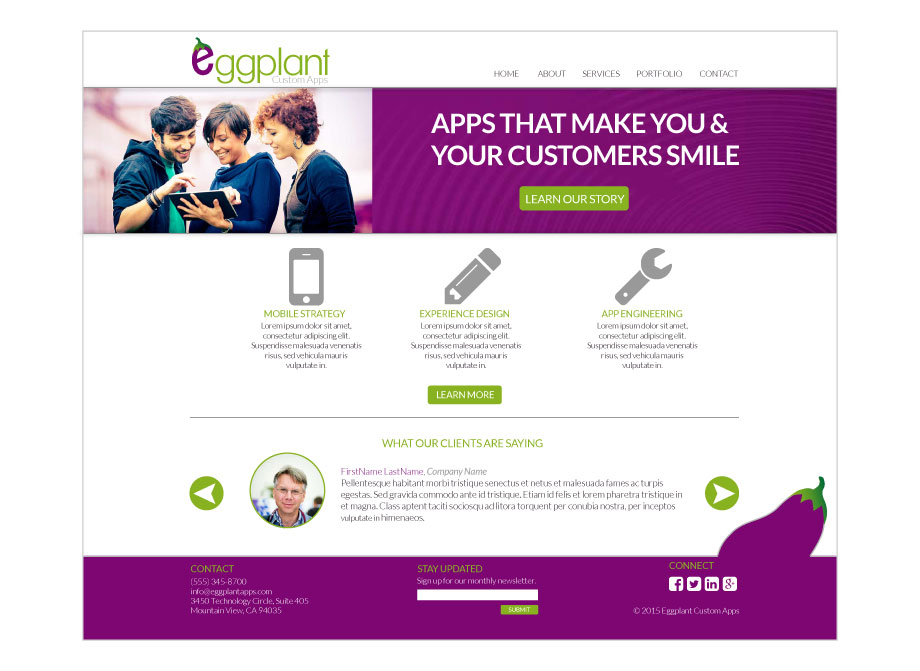
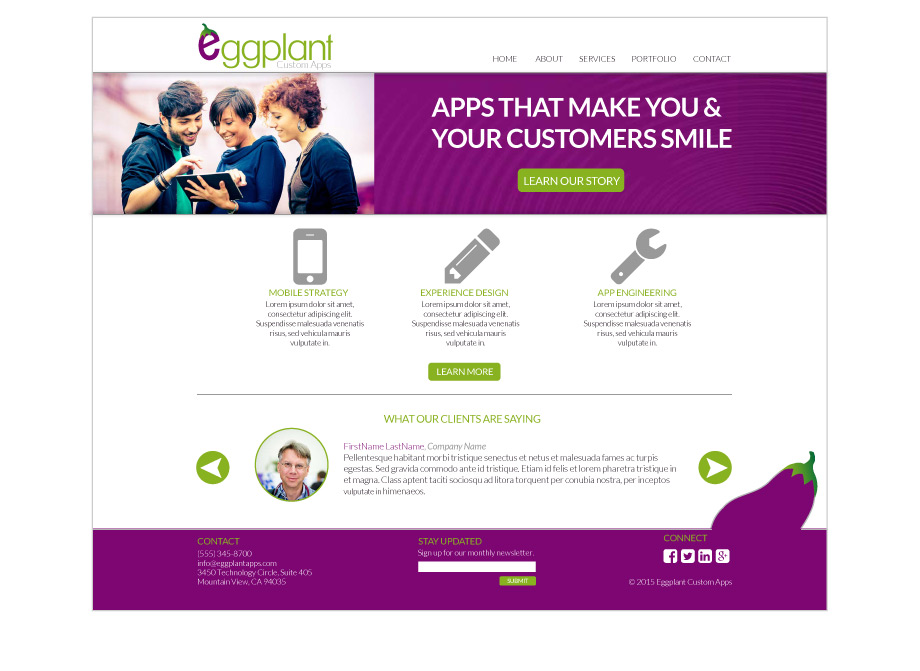
Edit eggplant apps images for better quality

Changed region(s): [[0.0913, 0.0298, 0.913, 0.9538], [0.0913, 0.0298, 0.1217, 0.0596]]

diff --git a/portfolio/eggplant_apps.html b/portfolio/eggplant_apps.html
@@ -31,12 +31,12 @@
                 <h2>// Visual Identity Creation</h2>
                 <p>Eggplant Apps is a fictitious Bay Area tech start-up of my imagination. I created a complete suite of original visual identity elements for the brand, including logo, business card, letterhead, website homepage and basic style guide. This project allowed me to show off my creative skills to develop a memorable identity that is just as fun as it is professional.</p>
                 <ul class="bxslider">
-                    <li><img src="../images/eggplant_apps_logo.jpg" title="Eggplant Apps: Mock logo" alt="Eggplant Apps: Mock Logo" /></a></li>
-                    <li><img src="../images/eggplant_apps_business_card.jpg" title="Eggplant Apps: Mock business card" alt="Eggplant Apps: Mock business card" /></li>
-                    <li><img src="../images/eggplant_apps_letterhead.jpg" title="Eggplant Apps: Mock letterhead" alt="Eggplant Apps: Mock letterhead" /></li>
-                    <li><img src="../images/eggplant_apps_website.jpg" title="Eggplant Apps: Mock website homepage" alt="Eggplant Apps: Mock website homepage" /></li>
-                    <li><img src="../images/eggplant_apps_style_guide1.jpg" title="Eggplant Apps: Mock style guide (page 1 of 2)" alt="Eggplant Apps: Mock style guide (page 1 of 2)" /></li>
-                    <li><img src="../images/eggplant_apps_style_guide2.jpg" title="Eggplant Apps: Mock style guide (page 2 of 2)" alt="Eggplant Apps: Mock style guide (page 2 of 2)" /></li>
+                    <li><img src="../images/eggplant_apps_logo.png" title="Eggplant Apps: Mock logo" alt="Eggplant Apps: Mock Logo" /></a></li>
+                    <li><img src="../images/eggplant_apps_business_cards.png" title="Eggplant Apps: Mock business card." alt="Eggplant Apps: Mock business card" /></li>
+                    <li><a href="../images/eggplant_apps_letterhead_large.png" target="_blank"><img src="../images/eggplant_apps_letterhead.png" title="Eggplant Apps: Mock letterhead. Click image to enlarge." alt="Eggplant Apps: Mock letterhead."/></a></li>
+                    <li><a href="../images/eggplant_apps_website_large.jpg" target="_blank"><img src="../images/eggplant_apps_website.jpg" title="Eggplant Apps: Mock website homepage. Click image to enlarge." alt="Eggplant Apps: Mock website homepage" /></a></li>
+                    <li><a href="../images/eggplant_apps_style_guide1_large.png" target="_blank"><img src="../images/eggplant_apps_style_guide1.png" title="Eggplant Apps: Mock style guide (page 1 of 2). Click image to enlarge." alt="Eggplant Apps: Mock style guide (page 1 of 2)" /></a></li>
+                    <li><a href="../images/eggplant_apps_style_guide2_large.png" target="_blank"><img src="../images/eggplant_apps_style_guide2.png" title="Eggplant Apps: Mock style guide (page 2 of 2). Click image to enlarge." alt="Eggplant Apps: Mock style guide (page 2 of 2)" /></a>/li>
                 </ul>
             </section>
         </main>

diff --git a/portfolio.html b/portfolio.html
@@ -27,7 +27,7 @@
         <main class="mainbox">
             <a href="portfolio/eggplant_apps.html">
                 <div class="card">
-                    <img src="images/eggplant_apps_sq.jpg" alt="" />
+                    <img src="images/eggplant_apps_sq.png" alt="" />
                     <section>
                         <h1>Eggplant Custom Apps</h1>
                         <p>Visual identity creation</p>
@@ -45,7 +45,7 @@
             </a>
             <a href="portfolio/campbell_photography.html">
                 <div class="card">
-                    <img src="images/campbell_photography_sq.jpg" alt="" />
+                    <img src="images/campbell_photography_sq.png" alt="" />
                     <section>
                         <h1>Campbell Photography</h1>
                         <p>Logo design</p>
@@ -63,7 +63,7 @@
             </a>
             <a href="portfolio/patti_caces.html">
                 <div class="card">
-                    <img src="images/patti_caces_sq.jpg" alt="" />
+                    <img src="images/patti_caces_sq.png" alt="" />
                         <section>
                         <h1>Catered by Patti Caces</h1>
                         <p>Rebranding campaign</p>
@@ -72,7 +72,7 @@
             </a>
             <a href="portfolio/misc_graphics.html">
                 <div class="card">
-                    <img src="images/misc_graphics_sq.jpg" alt="" />
+                    <img src="images/misc_graphics_sq.png" alt="" />
                     <section>
                         <h1>Miscellaneous Graphics</h1>
                         <p>Variety of designs</p>

diff --git a/portfolio/bird_lovers.html b/portfolio/bird_lovers.html
@@ -29,7 +29,7 @@
             <section id="project_section">
                 <h1>Bird Lovers of WA</h1>
                 <h2>// Website Design</h2>
-                <p>For this course project, I created a complete website for a fictitious local organization using HTML5, CSS3 and Javascript. The purpose of the project was to experiment with and incorporate CSS3 animation and JQuery. I designed this website so these experimental features blended seamlessly with the overall purpose and design of the site. View this website <a href="http://www.vickigrunewald.com/p4_grunewald_victoria/index.html" target="_blank" title="Bird Lovers of WA">here</a>.</p>
+                <p>For this course project, I created a complete website for a fictitious local organization using HTML5, CSS3 and Javascript. The purpose of the project was to experiment with and incorporate CSS3 animation and JQuery. I designed this website so these experimental features blended seamlessly with the overall purpose and design of the site. View this website <a href="http://www.vickigrunewald.com/bird_lovers_of_wa/index.html" target="_blank" title="Bird Lovers of WA">here</a>.</p>
                 <ul class="bxslider">
                     <li><img src="../images/bird_lovers_home.jpg" title="Bird Lovers of WA: Mock branding and homepage with animation on load" alt="Bird Lovers of WA: Mock branding and homepage with animation on load" /></li>
                     <li><img src="../images/bird_lovers_birds.jpg" title="Bird Lovers of WA: Bird guide page with hover animation" alt="Bird Lovers of WA: Bird guide with hover animation" /></li>

diff --git a/jquery.bxslider.css b/jquery.bxslider.css
@@ -204,3 +204,4 @@
 	padding: 10px;
 	margin-bottom: 10px;
 }
+
